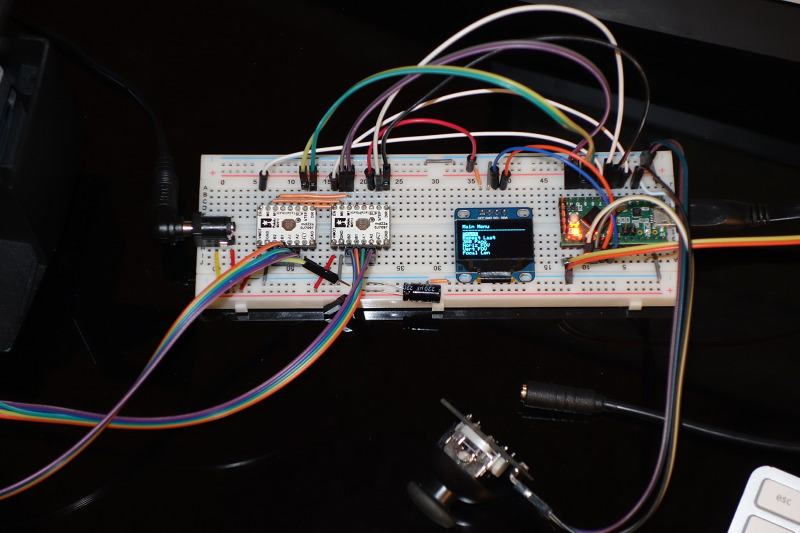
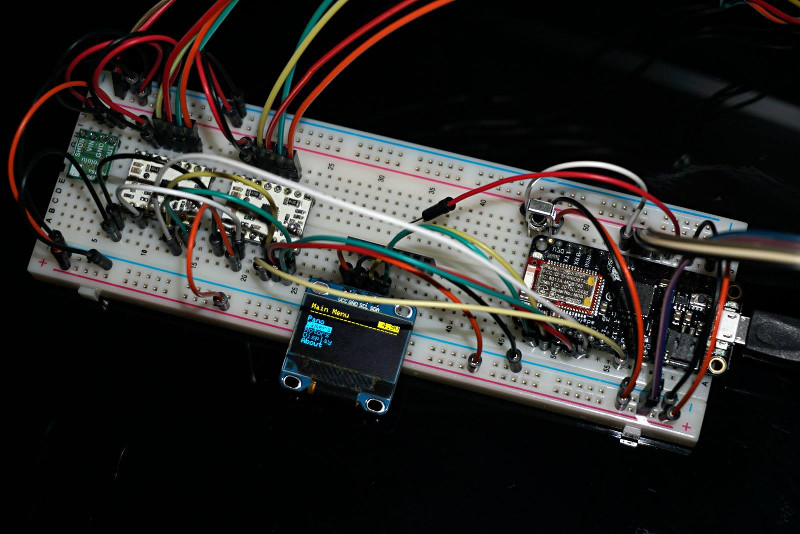
Documentation updates for BLE
Removed outdated diagrams and photos.
Added note about connecting ~SLEEP to Vcc.
Added Bluefruit SPI Friend

diff --git a/README.md b/README.md
@@ -23,17 +23,16 @@ Current state: fully functional prototype board, field-tested, frequently upgrad
   - Grid size and position
 - Precision movement control
 - Multiple delay options: pre-shutter and post-shutter, short or long shutter pulse (for bracketing).
+- Bluetooth joystick control via phone
 
 ### Hardware
 - 32-bit ARM controller board
 - OLED 128x64 display
-- Joystick menu navigation and optional IR remote
+- Joystick menu navigation, optional IR remote
 - Can operate with battery voltage from 10V down to 6V
 - Lower power usage and later voltage cutoff than original Gigapan
 
 ## Wiring map
-
-<img src="images/connection-diagram.png" width="870" alt="Breadboard setup with Teensy LC">
 
 ### Teensy LC / 3.x
 - A0 - Battery Voltage via divider: Vin---[47K]---A0---[10K]---GND
@@ -89,7 +88,7 @@ Current state: fully functional prototype board, field-tested, frequently upgrad
 
 ### Other
 
-- All ~EN tied to GND
+- All ~SLEEP tied to Vcc
 - All VMOT tied to Vin
 - All M1 tied to Vcc      (1:32 mode)
 - All M0 left unconnected (1:32 mode)
@@ -137,6 +136,7 @@ lower current even, if we reduce the speed.
   - (untested but same Cortex M0 as above) <a href="https://www.adafruit.com/products/2843">Arduino Zero</a>
 - 2 x <a href="https://www.pololu.com/product/2134">DRV8834 Low-Voltage Stepper Motor Driver</a> from Pololu
 - <a href="http://www.amazon.com/Yellow-Serial-128X64-Display-Arduino/dp/B00O2LLT30">128x64 OLED display, SSD1306 I2C</a> from anywhere
+- Adafruit <a href="https://learn.adafruit.com/introducing-the-adafruit-bluefruit-spi-breakout">Bluefruit SPI Breakout</a> (if not onboard) - provides Bluetooth LE 4.1 joystick control - optional
 - 2-axis + switch analog joystick
 - 1834HS IR receiver with some remote - optional but recommended
   - Remote codes are hardcoded in remote.cpp if you have a different remote
